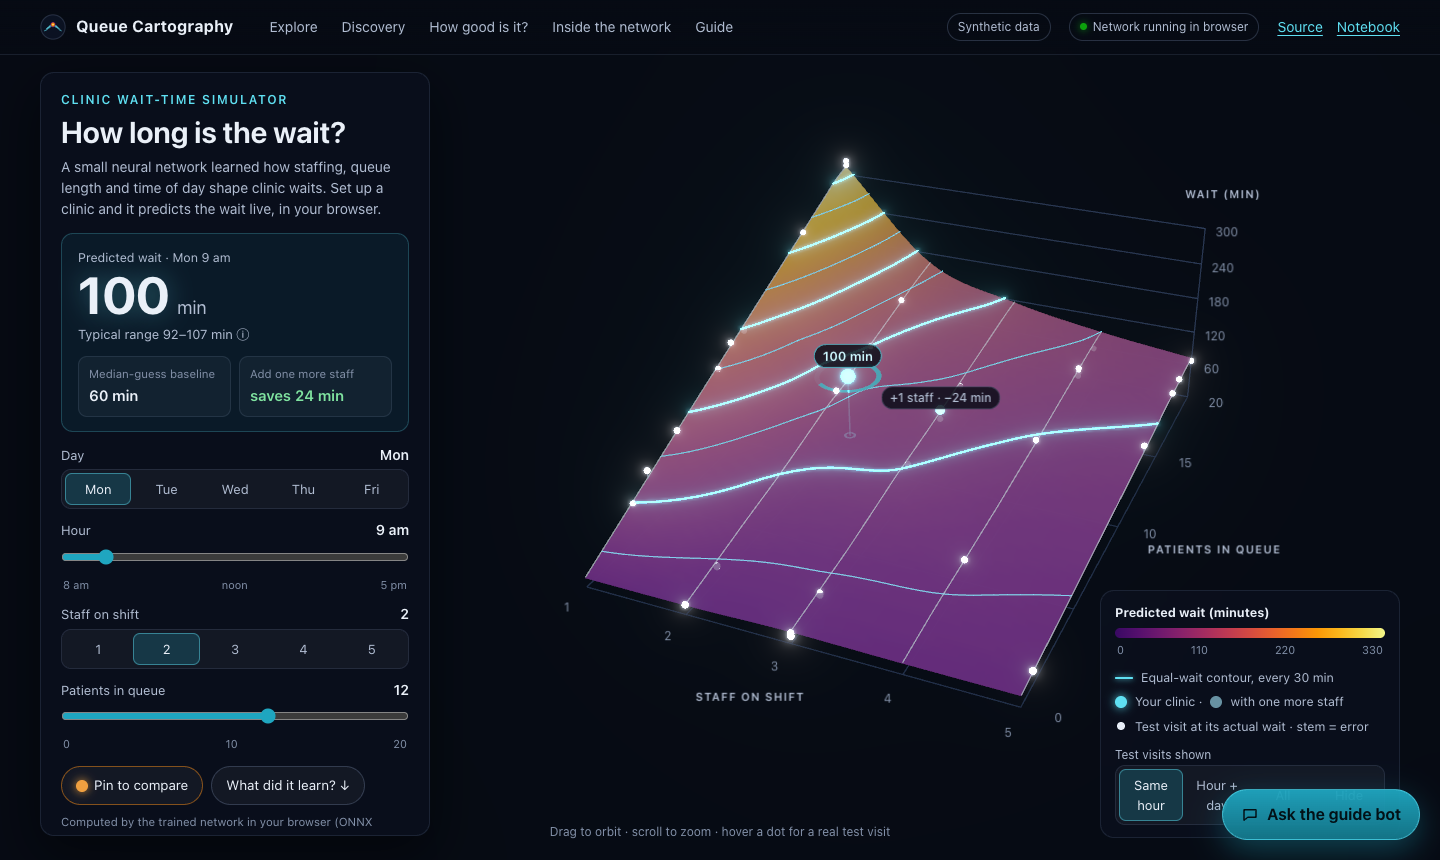
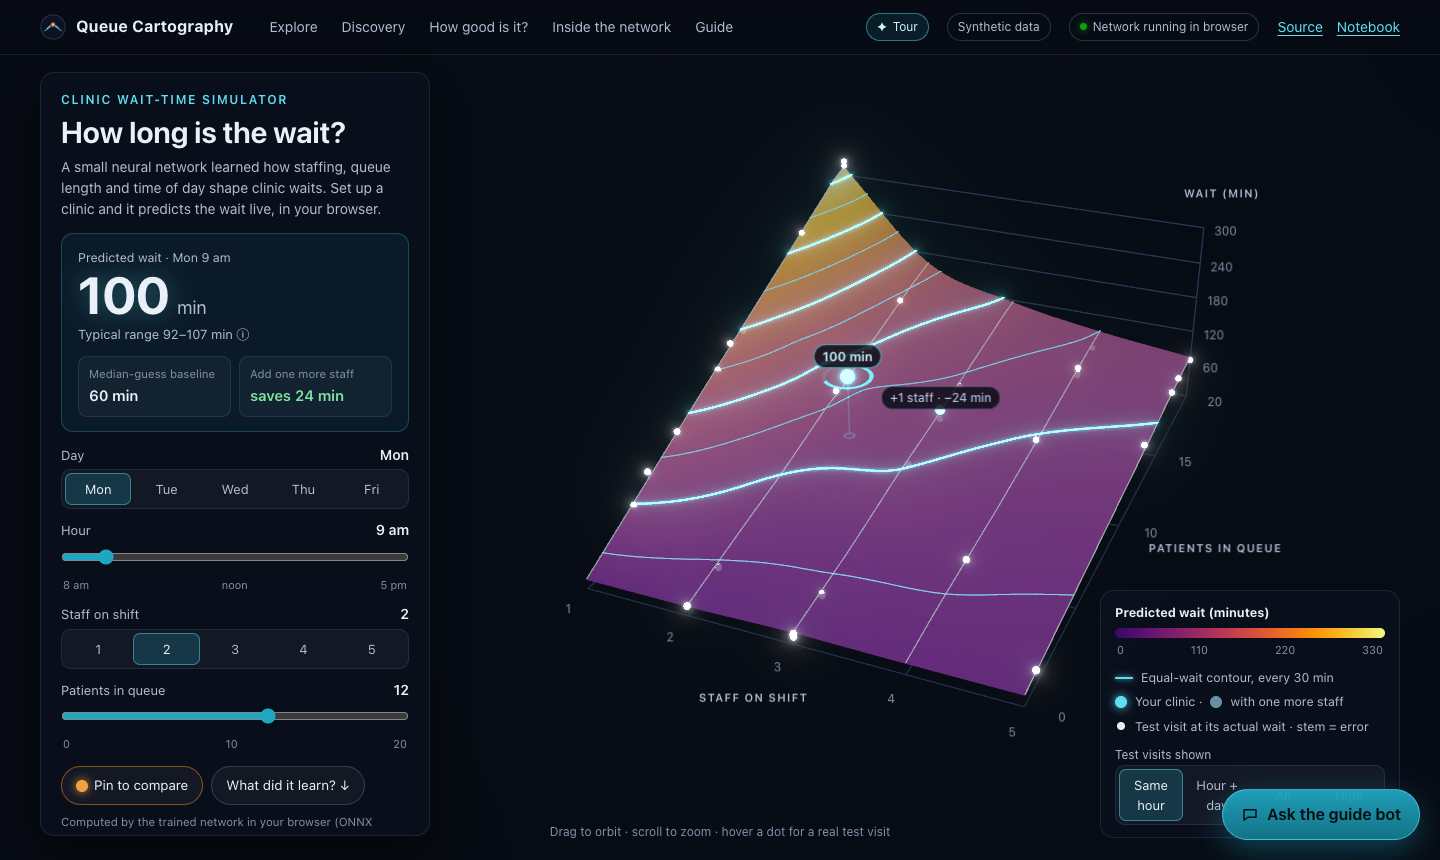
Refresh README screenshots: hero with Tour button, tour step + guide bot

diff --git a/README.md b/README.md
@@ -69,6 +69,8 @@ site.
 | **Guide + guide bot** | The guide is filled from `metrics.json`, so its numbers always match the site. The bot answers from the 2–3 most relevant guide passages, says "The guide doesn't cover that." when they don't answer a question, and runs entirely on the visitor's device after they click **Enable chat**. |
 | **Onboarding tour** | A first-visit welcome card offers a 60-second, 10-step tour; the "Tour" button restarts it. Several steps are learn-by-doing (add a staff member, lengthen the queue, pin a scenario) and advance when the visitor acts. It is keyboard-accessible, respects reduced motion, and becomes a bottom sheet on phones. |
 
+![Onboarding tour (a learn-by-doing step) and the guide bot answering from guide search](docs/screenshot-tour-chat.png)
+
 ### The guide bot in every browser
 
 | Tier | Engine | Who gets it | Model (chosen by bake-off) |
